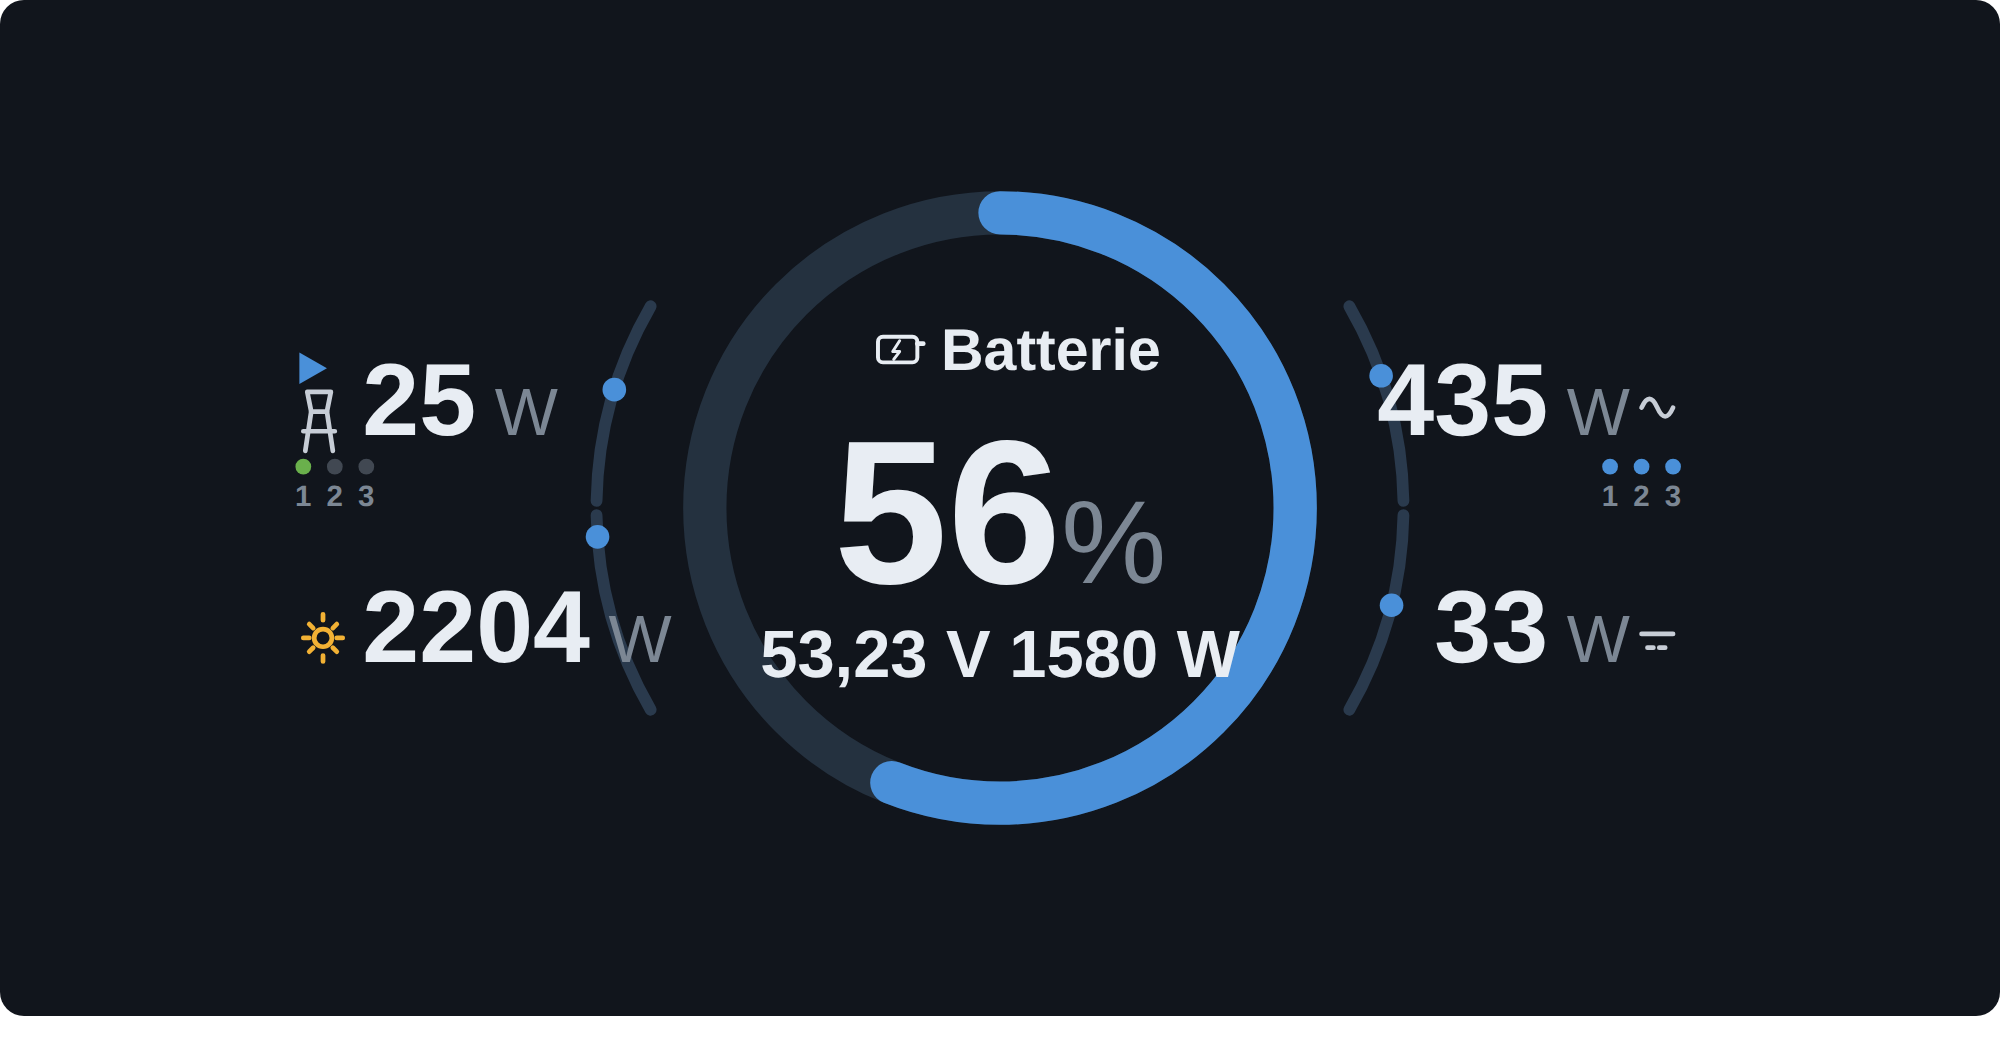
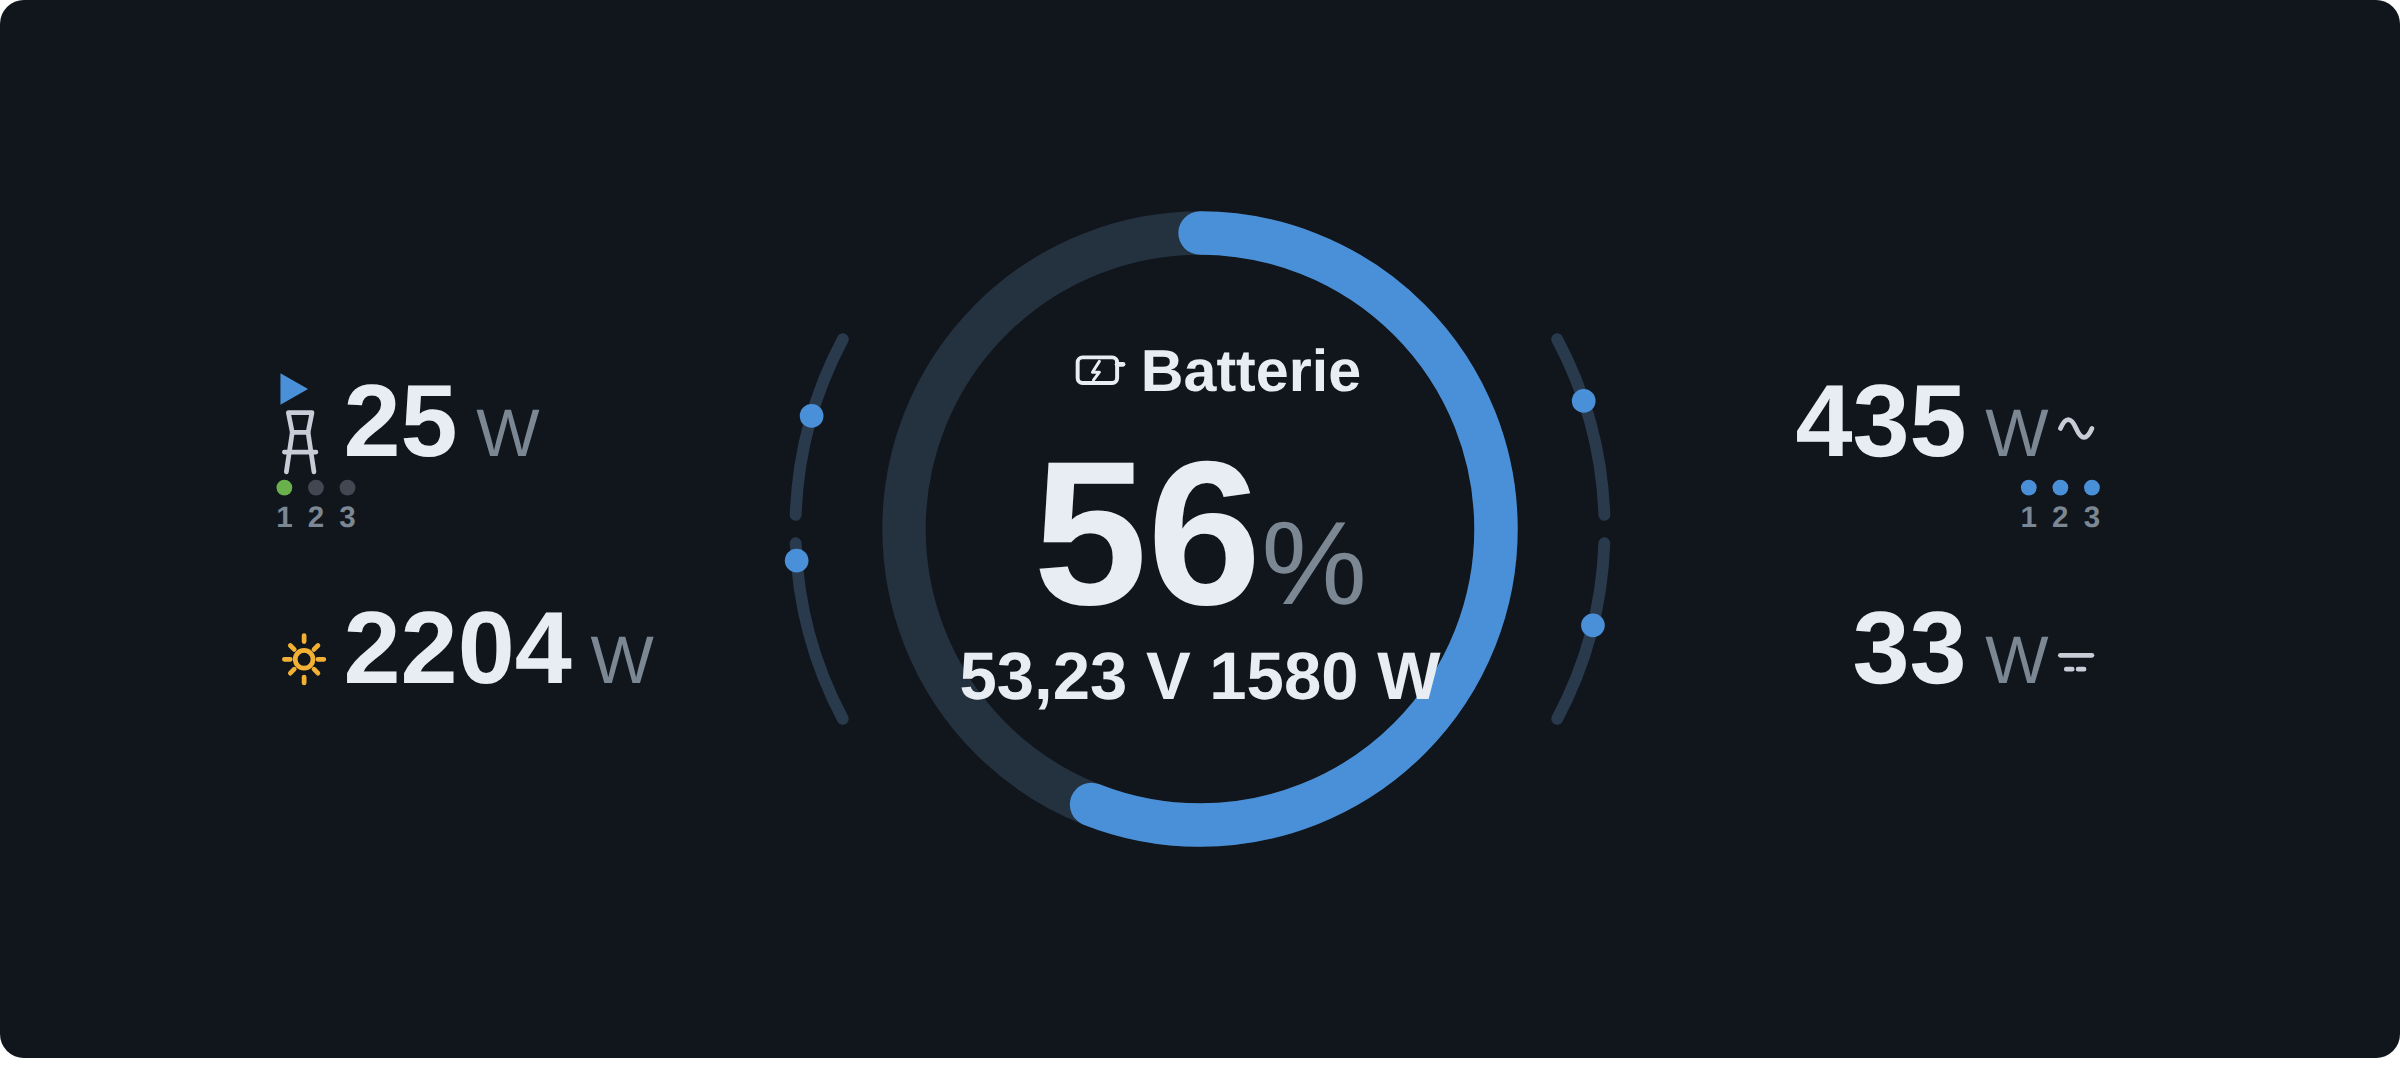
Fix flow arcs/dots overlapping value labels
The connector arcs and their animated flow dots overlapped the value
texts because the side columns were too cramped in the 1000-wide
viewBox. Widen the canvas to 1200 and place the arcs cleanly in the gap
between the values and the ring. Regenerate the light/dark previews.

Claude-Session: https://claude.ai/code/session_01AEecf3Q7fefkV69du2b9x2

Changed region(s): [[0.093, 0.1846, 0.868, 0.8], [0.992, 0.9538, 1.0, 0.9846], [0.0, 0.9538, 0.031, 0.9846]]

diff --git a/VictronVRMEnergyMonitor/module.html b/VictronVRMEnergyMonitor/module.html
@@ -50,32 +50,32 @@
 </style>
 
 <div class="vrm" id="vrm">
-    <svg viewBox="0 0 1000 500" preserveAspectRatio="xMidYMid meet" aria-label="Victron Energy">
+    <svg viewBox="0 0 1200 520" preserveAspectRatio="xMidYMid meet" aria-label="Victron Energy">
         <!-- dynamisch erzeugte Bögen + Flusspunkte -->
         <g id="vrmArcs"></g>
 
         <!-- SOC-Ring -->
-        <circle cx="500" cy="250" r="150" fill="none" stroke="var(--track)" stroke-width="22"/>
-        <circle id="vrmRing" cx="500" cy="250" r="150" fill="none" stroke="var(--ring)"
+        <circle cx="600" cy="260" r="150" fill="none" stroke="var(--track)" stroke-width="22"/>
+        <circle id="vrmRing" cx="600" cy="260" r="150" fill="none" stroke="var(--ring)"
                 stroke-width="22" stroke-linecap="round"
-                transform="rotate(-90 500 250)" stroke-dasharray="942" stroke-dashoffset="942"/>
+                transform="rotate(-90 600 260)" stroke-dasharray="942" stroke-dashoffset="942"/>
 
         <!-- Batterie-Zentrum -->
         <g>
-            <g transform="translate(438 162)">
+            <g transform="translate(538 172)">
                 <rect x="0" y="1" width="20" height="13" rx="2.5" fill="none" stroke="var(--text)" stroke-width="2"/>
                 <line x1="20" y1="4.5" x2="23" y2="4.5" stroke="var(--text)" stroke-width="2.4" stroke-linecap="round"/>
                 <path d="M11 3 L7.5 8.5 L11 8.5 L8 12.5" fill="none" stroke="var(--text)" stroke-width="1.5" stroke-linejoin="round" stroke-linecap="round"/>
             </g>
-            <text class="val" x="470" y="180" font-size="30" font-weight="500" text-anchor="start">Batterie</text>
-            <text x="500" y="288" font-size="104" text-anchor="middle">
+            <text class="val" x="570" y="190" font-size="30" font-weight="500" text-anchor="start">Batterie</text>
+            <text x="600" y="298" font-size="104" text-anchor="middle">
                 <tspan class="val" id="vrmSoc" font-weight="700">–</tspan><tspan class="unit" font-size="60">%</tspan>
             </text>
-            <text class="val" x="500" y="336" font-size="34" font-weight="500" text-anchor="middle" id="vrmBattSub">– V   – W</text>
+            <text class="val" x="600" y="346" font-size="34" font-weight="500" text-anchor="middle" id="vrmBattSub">– V   – W</text>
         </g>
 
         <!-- Netz (links oben) -->
-        <g id="vrmGrid" transform="translate(150 205)">
+        <g id="vrmGrid" transform="translate(140 215)">
             <path d="M-6 -34 l14 8 l-14 8 z" fill="var(--ring)" id="vrmGridArrow"/>
             <g stroke="var(--load)" stroke-width="2.4" fill="none" stroke-linecap="round" stroke-linejoin="round" transform="translate(-4 -14)">
                 <path d="M2 0 h12 l-2 10 h-8 z"/><path d="M4 10 l-3 20 M12 10 l3 20 M0 20 h16"/>
@@ -85,7 +85,7 @@
         </g>
 
         <!-- Solar (links unten) -->
-        <g id="vrmSolar" transform="translate(150 320)">
+        <g id="vrmSolar" transform="translate(140 330)">
             <g stroke="var(--solar)" stroke-width="2.4" fill="none" stroke-linecap="round" transform="translate(-2 -12)">
                 <circle cx="8" cy="8" r="4.5"/>
                 <path d="M8 -1 v-3 M8 17 v3 M1 8 h-3 M15 8 h3 M3 3 l-2 -2 M13 13 l2 2 M13 3 l2 -2 M3 13 l-2 2"/>
@@ -94,14 +94,14 @@
         </g>
 
         <!-- AC-Verbrauch (rechts oben) -->
-        <g id="vrmAc" transform="translate(850 205)">
+        <g id="vrmAc" transform="translate(1060 215)">
             <text x="-30" y="8" font-size="52" text-anchor="end"><tspan class="val" id="vrmAcVal">–</tspan><tspan class="unit" font-size="34"> W</tspan></text>
             <path d="M0 0 q4 -9 8 0 q4 9 8 0" transform="translate(-24 -6)" fill="none" stroke="var(--load)" stroke-width="2.4" stroke-linecap="round"/>
             <g id="vrmAcPhases" transform="translate(-40 24)"></g>
         </g>
 
         <!-- DC-Last (rechts unten) -->
-        <g id="vrmDc" transform="translate(850 320)">
+        <g id="vrmDc" transform="translate(1060 330)">
             <text x="-30" y="8" font-size="52" text-anchor="end"><tspan class="val" id="vrmDcVal">–</tspan><tspan class="unit" font-size="34"> W</tspan></text>
             <g transform="translate(-24 -8)" stroke="var(--load)" stroke-width="2.4" stroke-linecap="round">
                 <line x1="0" y1="2" x2="16" y2="2"/><line x1="3" y1="9" x2="13" y2="9" stroke-dasharray="3 3"/>
@@ -113,7 +113,7 @@
 <script>
     (function () {
         var initial = /*__INITIAL_DATA__*/null;
-        var CX = 500, CY = 250, RING = 150, C = 2 * Math.PI * RING;
+        var CX = 600, CY = 260, RING = 150, C = 2 * Math.PI * RING;
         var THR = 3; // W Rauschschwelle
 
         function polar(r, deg) {
@@ -130,12 +130,13 @@
         }
         function fmt(v) { return String(Math.round(v)); }
 
-        // Bogen-Definitionen: sourceDeg (außen/Label) -> ringDeg (nahe Ring)
+        // Bögen sitzen in der Lücke zwischen Werte-Text und Ring.
+        // src = Seite beim Wert, ring = Seite beim Ring.
         var ARCS = {
-            grid:  { r: 205, src: 150, ring: 179 },
-            solar: { r: 205, src: 210, ring: 181 },
-            ac:    { r: 205, src: 30,  ring: 1 },
-            dc:    { r: 205, src: 330, ring: 359 }
+            grid:  { r: 205, src: 152, ring: 178 },
+            solar: { r: 205, src: 208, ring: 182 },
+            ac:    { r: 205, src: 28,  ring: 2 },
+            dc:    { r: 205, src: 332, ring: 358 }
         };
 
         var SVGNS = 'http://www.w3.org/2000/svg';
@@ -165,12 +166,9 @@
         function phaseDots(group, phases, activeColor) {
             while (group.firstChild) { group.removeChild(group.firstChild); }
             for (var i = 0; i < 3; i++) {
-                var on;
-                if (phases && phases.length) {
-                    on = phases[i] !== null && phases[i] !== undefined && Math.abs(phases[i]) > THR;
-                } else {
-                    on = false;
-                }
+                var on = phases && phases.length
+                    ? (phases[i] !== null && phases[i] !== undefined && Math.abs(phases[i]) > THR)
+                    : false;
                 var x = i * 16;
                 var dot = el('circle', { cx: x, cy: 0, r: 4, fill: on ? activeColor : 'var(--muted)' });
                 dot.style.opacity = on ? '1' : '0.45';
@@ -195,7 +193,6 @@
             var pv = d.pv || 0, grid = d.grid || 0, batt = d.battPower || 0;
             var ac = d.consumption || 0, dc = d.dc || 0;
 
-            // Ring
             var ring = document.getElementById('vrmRing');
             var pct = soc === null ? 0 : Math.max(0, Math.min(100, soc));
             ring.setAttribute('stroke-dashoffset', String(C * (1 - pct / 100)));
@@ -204,29 +201,21 @@
             document.getElementById('vrmBattSub').textContent =
                 (v === null ? '–' : v.toFixed(2).replace('.', ',') + ' V') + '   ' + fmt(batt) + ' W';
 
-            // Werte
             document.getElementById('vrmGridVal').textContent = fmt(grid);
             document.getElementById('vrmSolarVal').textContent = fmt(pv);
             document.getElementById('vrmAcVal').textContent = fmt(ac);
             document.getElementById('vrmDcVal').textContent = fmt(dc);
 
-            // Grid-Richtungspfeil (blau = Bezug)
             document.getElementById('vrmGridArrow').style.opacity = Math.abs(grid) > THR ? '1' : '0';
 
-            // Phasen
             phaseDots(document.getElementById('vrmGridPhases'), d.gridPhases, 'var(--active)');
             phaseDots(document.getElementById('vrmAcPhases'), d.consPhases, 'var(--ring)');
 
-            // Bögen + Flüsse
             var arcs = document.getElementById('vrmArcs');
             while (arcs.firstChild) { arcs.removeChild(arcs.firstChild); }
-            // Solar: immer Richtung Ring
             buildFlow(arcs, ARCS.solar, pv > THR, true, 'var(--solar)', speedFor(pv));
-            // Netz: + Bezug -> Ring, - Einspeisung -> raus
             buildFlow(arcs, ARCS.grid, Math.abs(grid) > THR, grid > 0, 'var(--ring)', speedFor(grid));
-            // AC-Last: Ring -> Verbraucher
             buildFlow(arcs, ARCS.ac, ac > THR, false, 'var(--ring)', speedFor(ac));
-            // DC-Last: Ring -> Verbraucher
             buildFlow(arcs, ARCS.dc, dc > THR, false, 'var(--ring)', speedFor(dc));
         }
 
